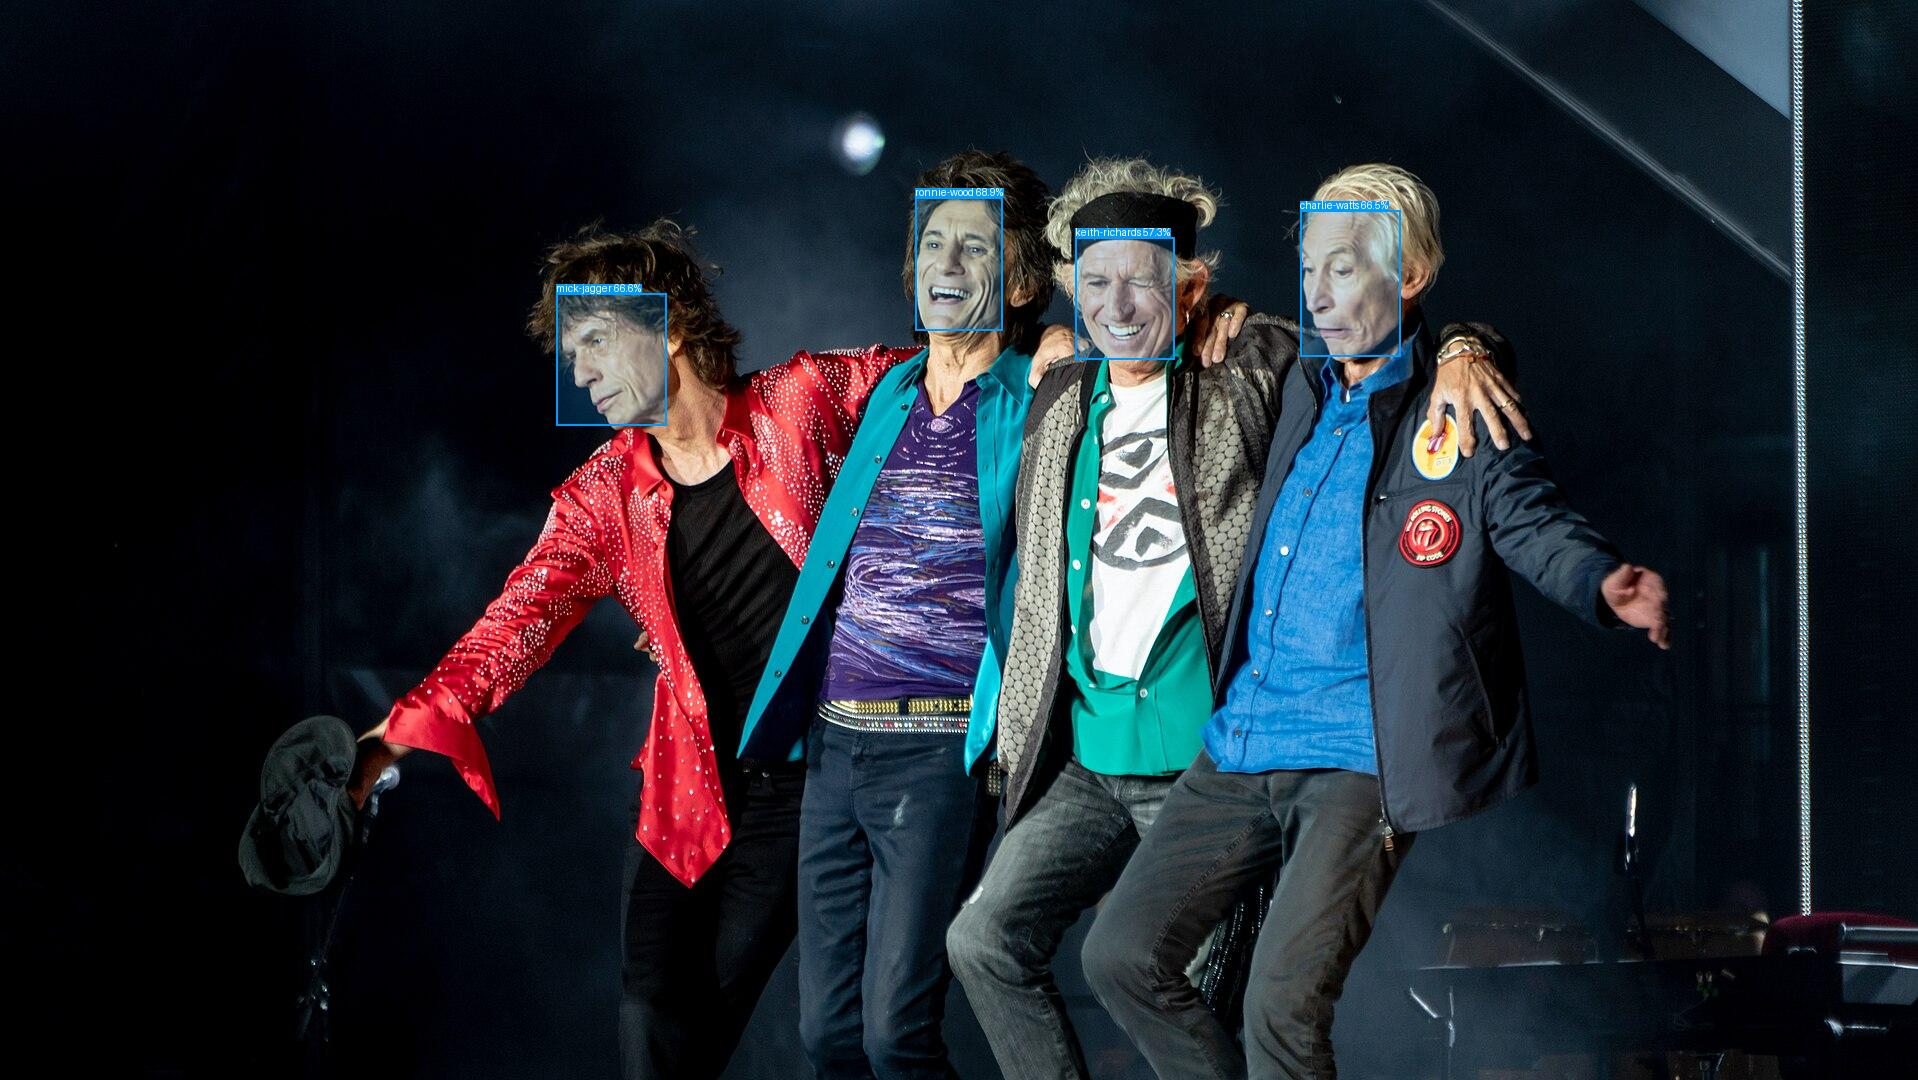
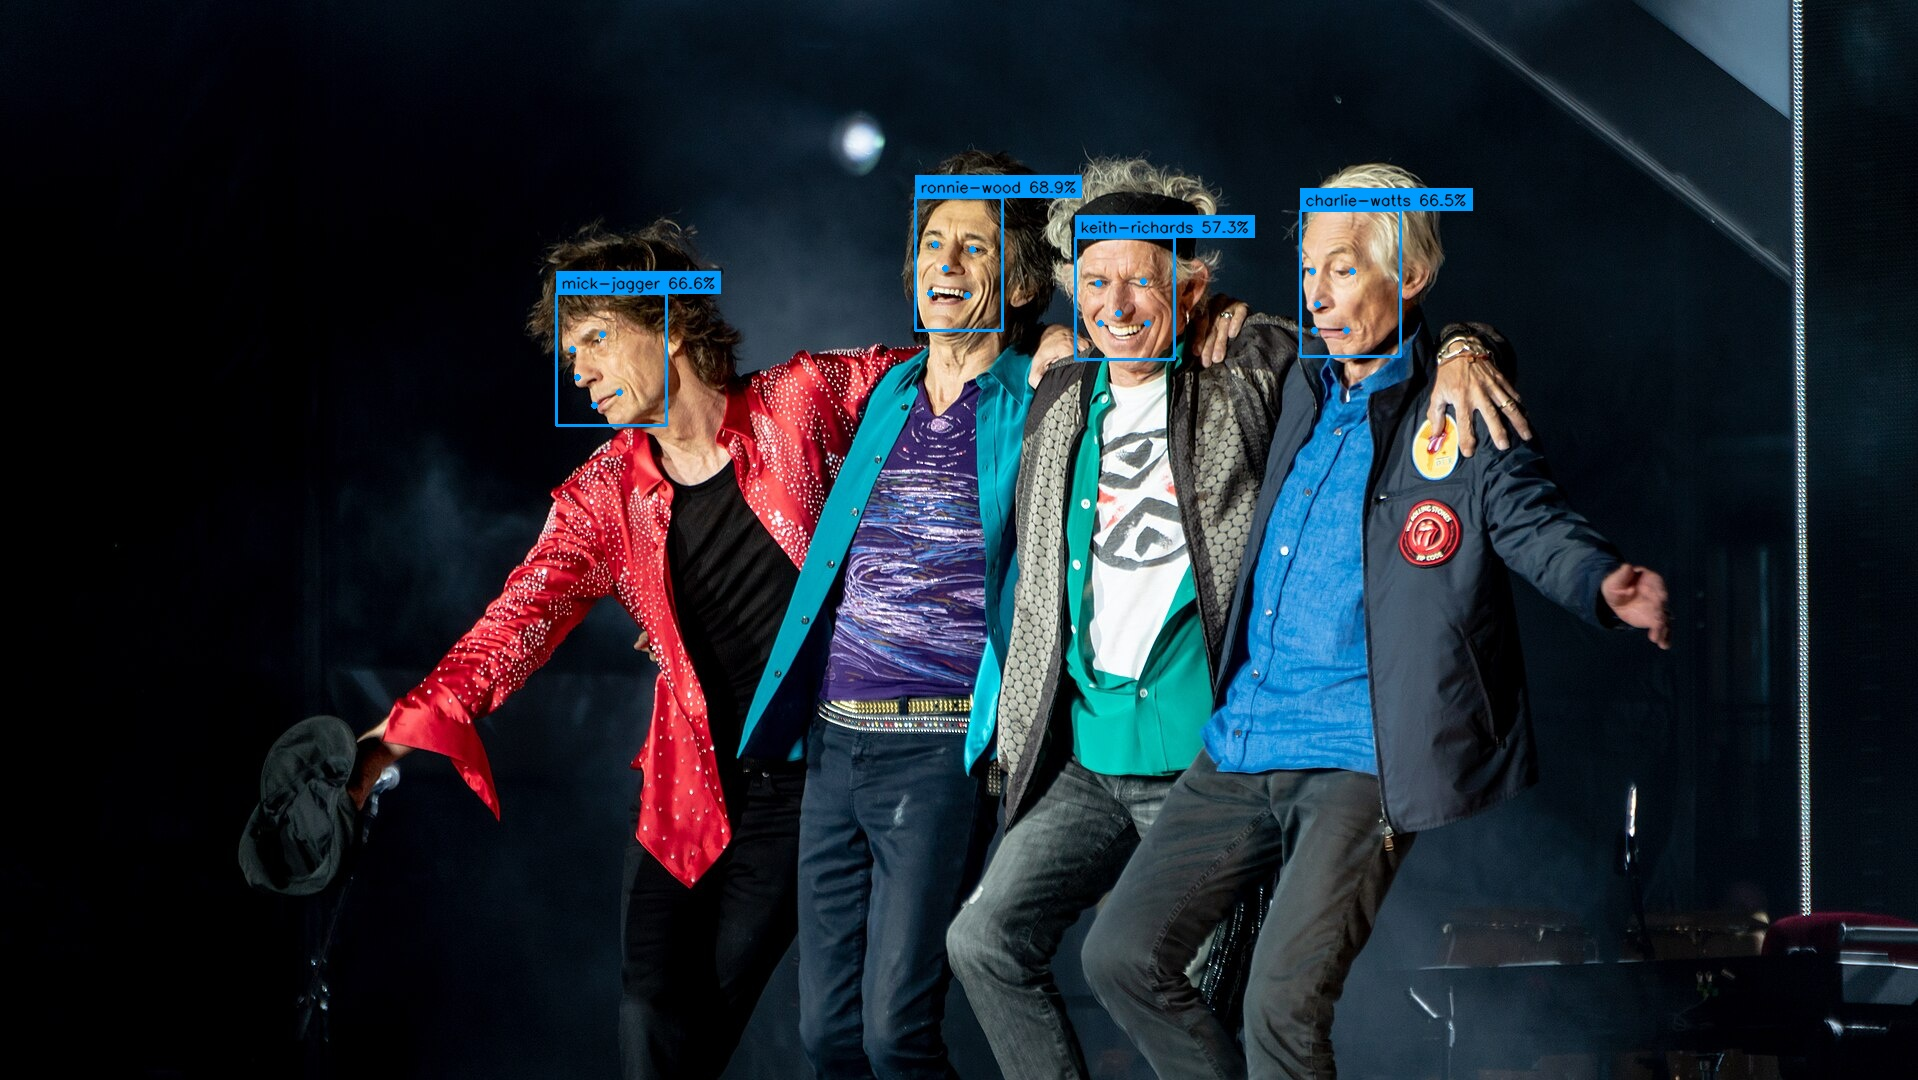
Add draw functions based on opencv

Changed region(s): [[0.4614, 0.1528, 0.769, 0.3361], [0.2769, 0.2444, 0.3999, 0.3972]]

diff --git a/abraia/draw.py b/abraia/draw.py
@@ -1,0 +1,120 @@
+import cv2
+import numpy as np
+
+from .utils import hex_to_rgb
+
+
+def load_image(src):
+    return cv2.cvtColor(cv2.imread(src), cv2.COLOR_BGR2RGB)
+
+
+def save_image(dest, img):
+    cv2.imwrite(dest, cv2.cvtColor(img, cv2.COLOR_RGB2BGR))
+
+
+def show_image(img):
+    cv2.namedWindow('Image', cv2.WINDOW_GUI_NORMAL)
+    cv2.imshow('Image',  cv2.cvtColor(img, cv2.COLOR_RGB2BGR))
+    cv2.waitKey(0)
+    cv2.destroyWindow('Image')
+
+
+def draw_point(img, point, color, thickness = 2):
+    center, radius = point, thickness
+    cv2.circle(img, center, radius, color, thickness)
+    return img
+
+
+def draw_line(img, line, color, thickness = 2):
+    pt1, pt2 = line
+    cv2.line(img, pt1, pt2, color, thickness)
+    return img
+
+
+def draw_rectangle(img, rect, color, thickness = 2):
+    x, y, w, h =  rect
+    pt1, pt2 = (x, y), (x + w, y + h)
+    cv2.rectangle(img, pt1, pt2, color, thickness)
+    return img
+
+
+def draw_filled_rectangle(img, rect, color, opacity = 1):
+    x, y, w, h = rect
+    pt1, pt2 = (x, y), (x + w, y + h)
+    if opacity == 1:
+        cv2.rectangle(img, pt1, pt2, color, -1)
+    else:
+        img_copy = img.copy()
+        cv2.rectangle(img_copy, pt1, pt2, color, -1)
+        cv2.addWeighted(img_copy, opacity, img, 1 - opacity, 0, img)
+    return img
+
+
+def draw_polygon(img, polygon, color, thickness = 2):
+    cv2.polylines(img, [polygon], True, color, thickness)
+    return img
+
+
+def draw_filled_polygon(img, polygon, color, opacity = 1):
+    if opacity == 1:
+        cv2.fillPoly(img, [polygon], color)
+    else:
+        img_copy = img.copy()
+        cv2.fillPoly(img_copy, [polygon], color)
+        cv2.addWeighted(img_copy, opacity, img, 1 - opacity, 0, img)
+    return img
+
+
+def draw_text(img, text, point, text_color = (0, 0, 0), text_scale = 0.5, text_thickness = 1, 
+              text_font = cv2.FONT_HERSHEY_SIMPLEX, padding = 5, background_color = None):
+    x, y = point
+    w, h = cv2.getTextSize(text, text_font, text_scale, text_thickness)[0]
+    rect = [x, max(y - h - 2 * padding, 0), w + 2 * padding, h + 2 * padding]
+    org = (rect[0] + padding, rect[1] + padding + h)
+    if background_color is not None:
+        img = draw_filled_rectangle(img, rect, background_color)
+    cv2.putText(img, text, org, text_font, text_scale, text_color, text_thickness, cv2.LINE_AA)
+    return img
+
+
+def draw_overlay(img, overlay, rect, opacity = 1):
+    x, y, width, height = rect
+    x1, y1, x2, y2 = x, y, x + width, y + height
+    overlay = cv2.resize(overlay, (width, height))
+    alpha_channel = (overlay[:, :, 3] if overlay.shape[2] == 4 else np.ones((height, width), dtype=np.uint8) * 255)
+    alpha_float = (cv2.convertScaleAbs(alpha_channel * opacity).astype(np.float32) / 255)[..., np.newaxis]
+    blended_roi = cv2.convertScaleAbs((1 - alpha_float) * img[y1:y2, x1:x2] + alpha_float * overlay[:, :, :3])
+    img[y1:y2, x1:x2] = blended_roi
+    return img
+
+
+def calculate_optimal_text_scale(img_size):
+    return min(img_size) * 1e-3
+
+
+def calculate_optimal_line_thickness(img_size):
+    if min(img_size) < 1080:
+        return 2
+    return 4
+
+
+def render_results(img, results):
+    for result in results:
+        label = result.get('label')
+        prob = result.get('confidence')
+        color = hex_to_rgb(result.get('color', '#009BFF'))
+        x, y, w, h = result.get('box', [0, 0, 0, 0])
+        if result.get('polygon'):
+            draw_filled_polygon(img, result['polygon'], color, opacity=0.2)
+            draw_polygon(img, result['polygon'], color, thickness=2)
+        elif result.get('box'):
+            if result.get('landmarks'):
+                for point in result['landmarks'].values():
+                    draw_point(img, point, color)
+            else:
+                draw_filled_rectangle(img, result['box'], color, opacity=0.2)
+            draw_rectangle(img, result['box'], color, thickness=2)
+        if (label):
+            text = f"{label} {round(100 * prob, 1)}%"
+            draw_text(img, text, (x, y), background_color=color)
+    return img

diff --git a/abraia/training/classify.py b/abraia/training/classify.py
@@ -1,5 +1,5 @@
 from ..client import Abraia
-from ..utils import temporal_src
+from ..utils import temporal_src, load_image
 
 import onnx
 import torch
@@ -13,7 +13,6 @@ import random
 import numpy as np
 import matplotlib.pyplot as plt
 
-from PIL import Image
 from tqdm import trange
 
 
@@ -26,7 +25,7 @@ device = torch.device("cuda:0" if torch.cuda.is_available() else "cpu")
 
 def read_image(path):
     dest = abraia.download_file(path, cache=True)
-    return Image.open(dest).convert('RGB')
+    return load_image(dest)
 
 
 def load_dataset(dataset, shuffle=True):

diff --git a/abraia/faces/mtcnn.py b/abraia/faces/mtcnn.py
@@ -440,8 +440,8 @@ class MTCNN(object):
             results.append({
                 'box': [x, y, width, height],
                 'confidence': confidence,
-                'kps': keypoints,
-                'keypoints': {
+                'keypoints': keypoints,
+                'landmarks': {
                     'left_eye': (int(keypoints[0, 0]), int(keypoints[0, 1])),
                     'right_eye': (int(keypoints[1, 0]), int(keypoints[1, 1])),
                     'nose': (int(keypoints[2, 0]), int(keypoints[2, 1])),

diff --git a/abraia/video.py b/abraia/video.py
@@ -10,6 +10,7 @@ class Video:
         self.fps = self.cap.get(cv2.CAP_PROP_FPS)
         self.width = int(self.cap.get(cv2.CAP_PROP_FRAME_WIDTH))
         self.height = int(self.cap.get(cv2.CAP_PROP_FRAME_HEIGHT))
+        self.frame_rate = self.fps
         print(self.width, self.height, self.fps)
         if output:
             fourcc = cv2.VideoWriter_fourcc(*'mp4v')

diff --git a/abraia/faces/transform.py b/abraia/faces/transform.py
@@ -40,7 +40,7 @@ def align_face(img, src_pts, size=112):
 def align_faces(img, results, size=112):
     imgs = []
     for result in results:
-        src_pts = result['kps']
+        src_pts = result['keypoints']
         imgs.append(align_face(img, src_pts, size))
     return imgs
 

diff --git a/abraia/utils.py b/abraia/utils.py
@@ -28,7 +28,7 @@ def load_json(src):
 
 
 def load_image(src):
-    return Image.open(src)
+    return Image.open(src).convert('RGB')
 
 
 def get_color(idx):

diff --git a/README.md b/README.md
@@ -41,7 +41,7 @@ Detect objects with a pre-trained YOLOv8 model on images, videos, or even camera
 ```python
 from abraia import detect
 
-model_uri = f"https://api.abraia.me/files/multiple/camera/yolov8n.onnx"
+model_uri = f"https://api.abraia.me/files/multiple/models/yolov8n.onnx"
 
 model = detect.load_model(model_uri)
 
@@ -61,7 +61,7 @@ from PIL import Image
 from abraia import detect
 
 
-model_uri = f"https://api.abraia.me/files/multiple/camera/yolov8n.onnx"
+model_uri = f"https://api.abraia.me/files/multiple/models/yolov8n.onnx"
 
 model = detect.load_model(model_uri)
 
@@ -80,18 +80,18 @@ for frame in video:
 import os
 import numpy as np
 
-from abraia.utils import load_image, render_results
+from abraia.draw import load_image, save_image, render_results
 from abraia.faces import Recognition
 
 
-im = load_image('images/rolling-stones.jpg')
-img = np.array(im)
+img = load_image('images/rolling-stones.jpg')
+out = img.copy()
 
 recognition = Recognition()
 results = recognition.represent_faces(img)
 
 for src in ['mick-jagger.jpg', 'keith-richards.jpg', 'ronnie-wood.jpg', 'charlie-watts.jpg']:
-    img = np.array(load_image(f"images/{src}"))
+    img = load_image(f"images/{src}")
     rslt = recognition.represent_faces(img)[0]
     sims = [recognition.compute_similarity(rslt['embeddings'], result['embeddings']) for result in results]
     idx = np.argmax(sims)
@@ -100,8 +100,8 @@ for src in ['mick-jagger.jpg', 'keith-richards.jpg', 'ronnie-wood.jpg', 'charlie
         results[idx]['confidence'] = sims[idx]
     print(src, sims[idx], sims)
 
-render_results(im, results)
-im.show()
+render_results(out, results)
+save_image('images/rolling-stones-identified.jpg', out)
 ```
 
 ![rolling stones identified](https://github.com/abraia/abraia-multiple/raw/master/images/rolling-stones-identified.jpg)
